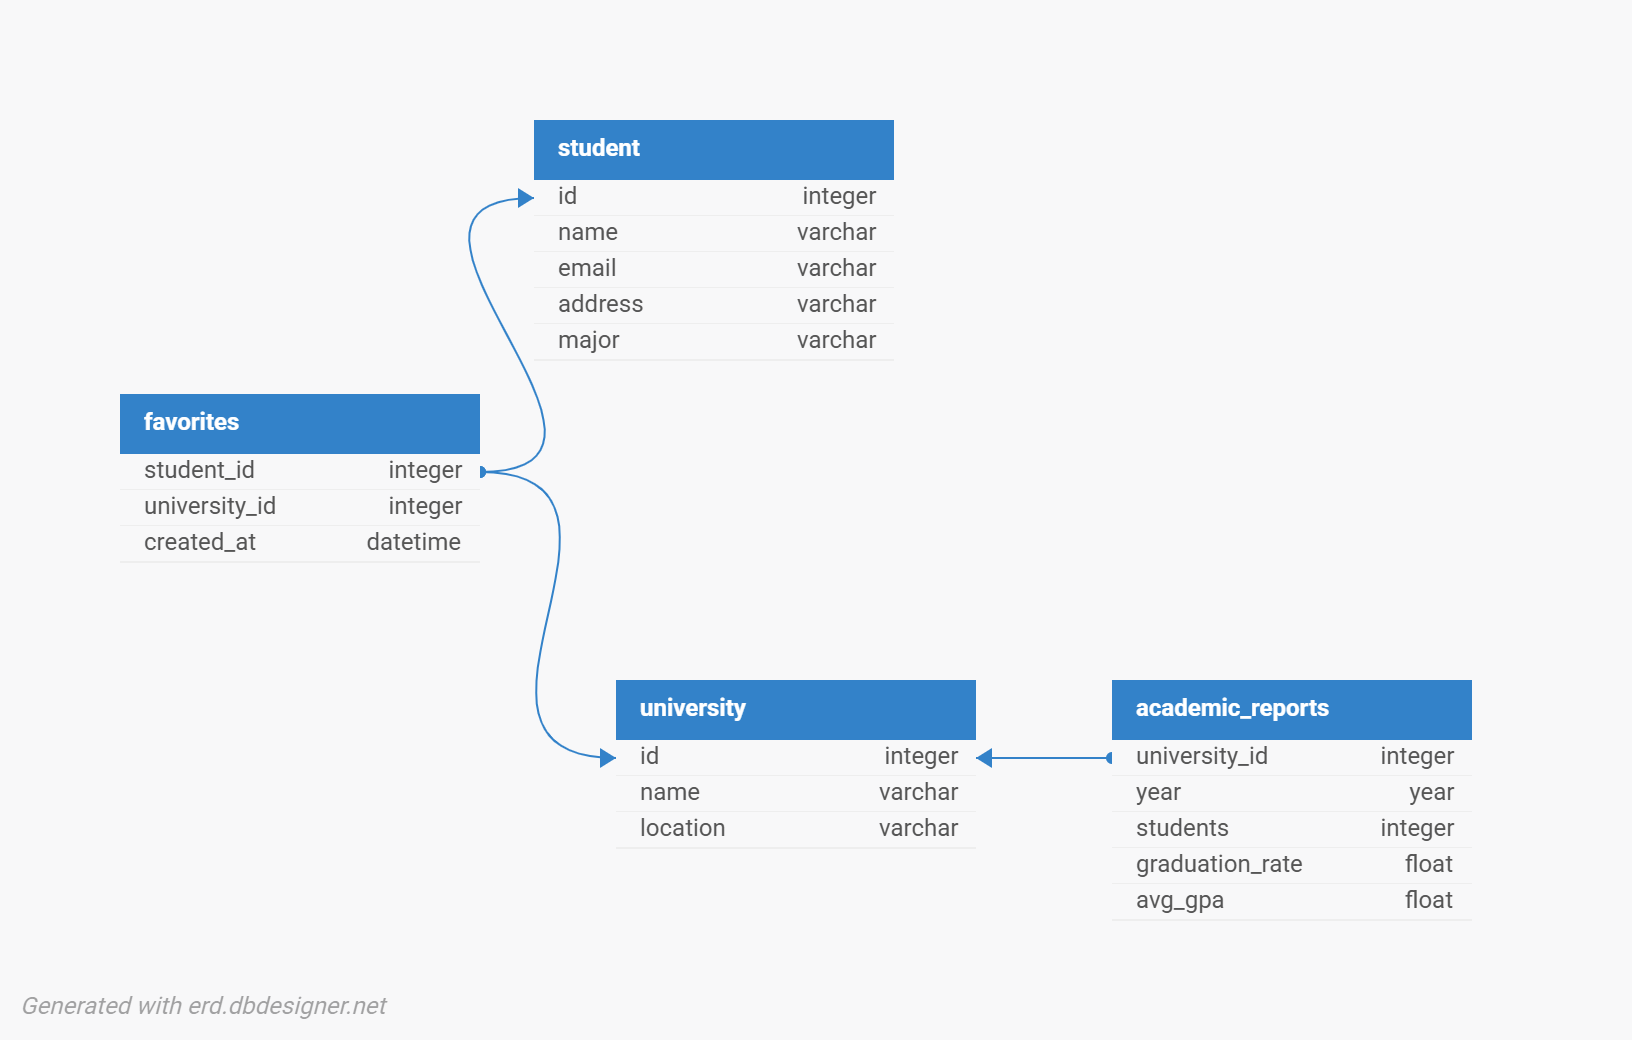
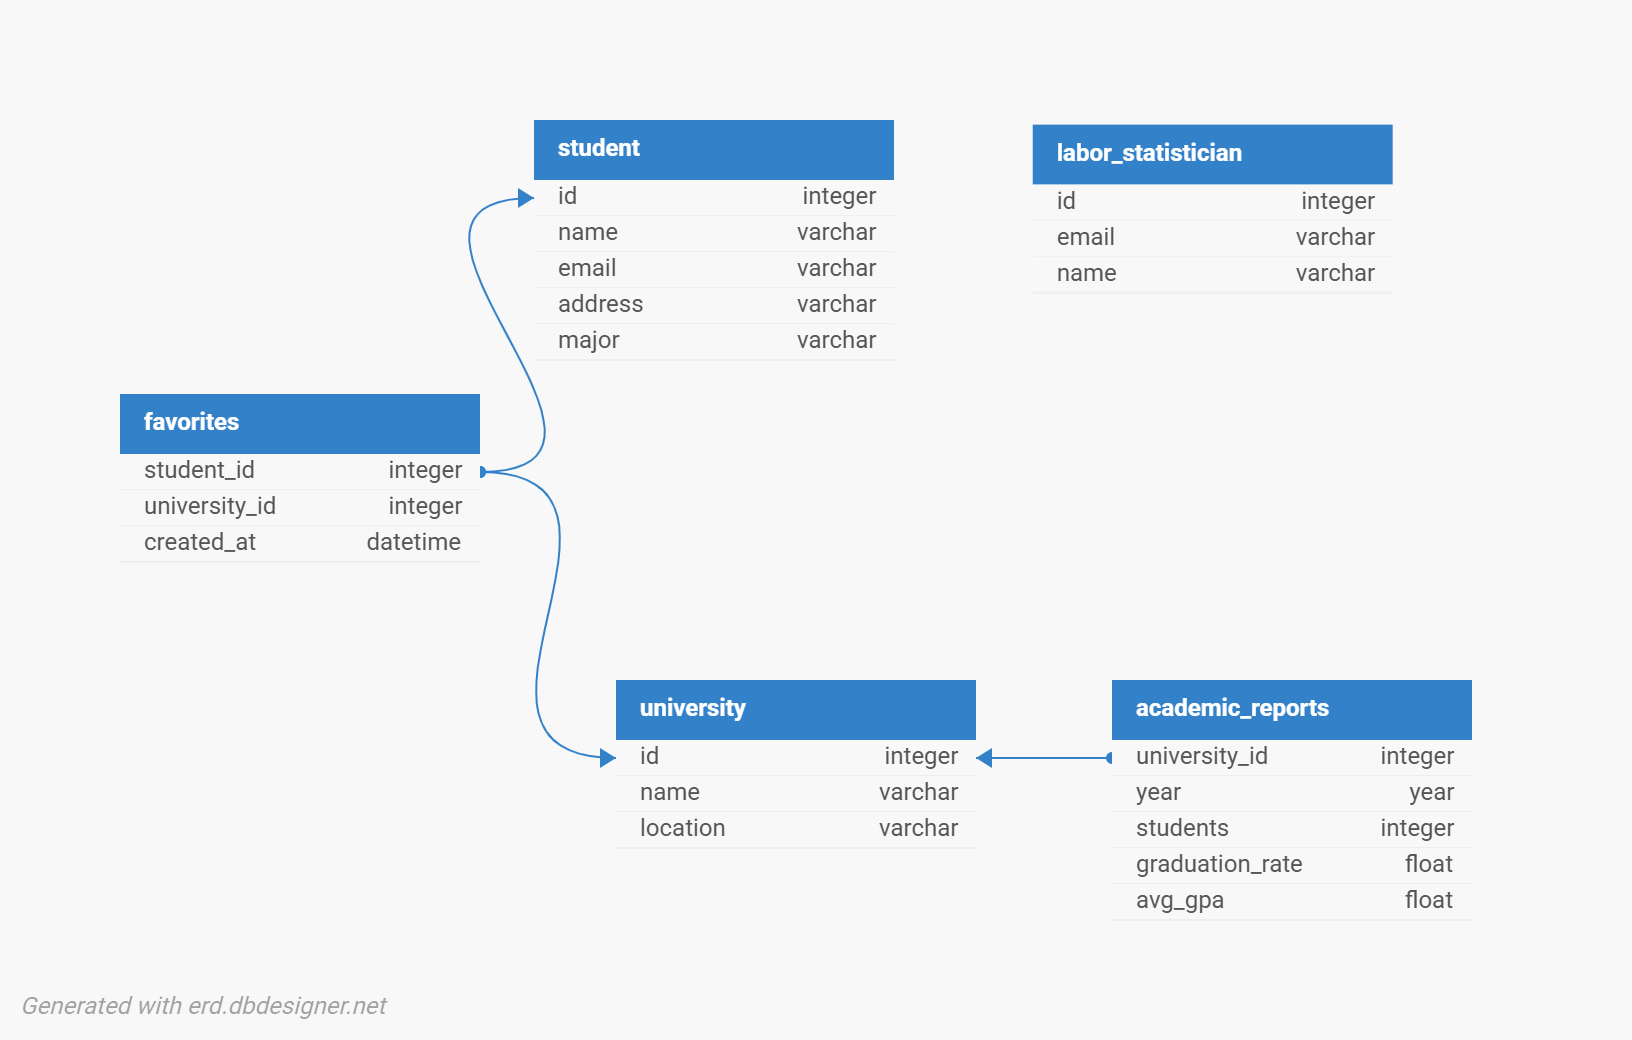
update database diagrams with phase 2 feedback

Changed region(s): [[0.625, 0.0923, 0.875, 0.2769], [0.6562, 0.2154, 0.6875, 0.2769]]

diff --git a/content/team_posts/phase2/index.md b/content/team_posts/phase2/index.md
@@ -71,6 +71,12 @@ CREATE TABLE student (
     major       VARCHAR(100)
 );
 
+CREATE TABLE labor_statistician (
+    id          INTEGER PRIMARY KEY,
+    name        VARCHAR(100) NOT NULL,
+    email       VARCHAR(100) NOT NULL,
+);
+
 CREATE TABLE university (
     id          INTEGER PRIMARY KEY,
     name        VARCHAR(100) NOT NULL,
